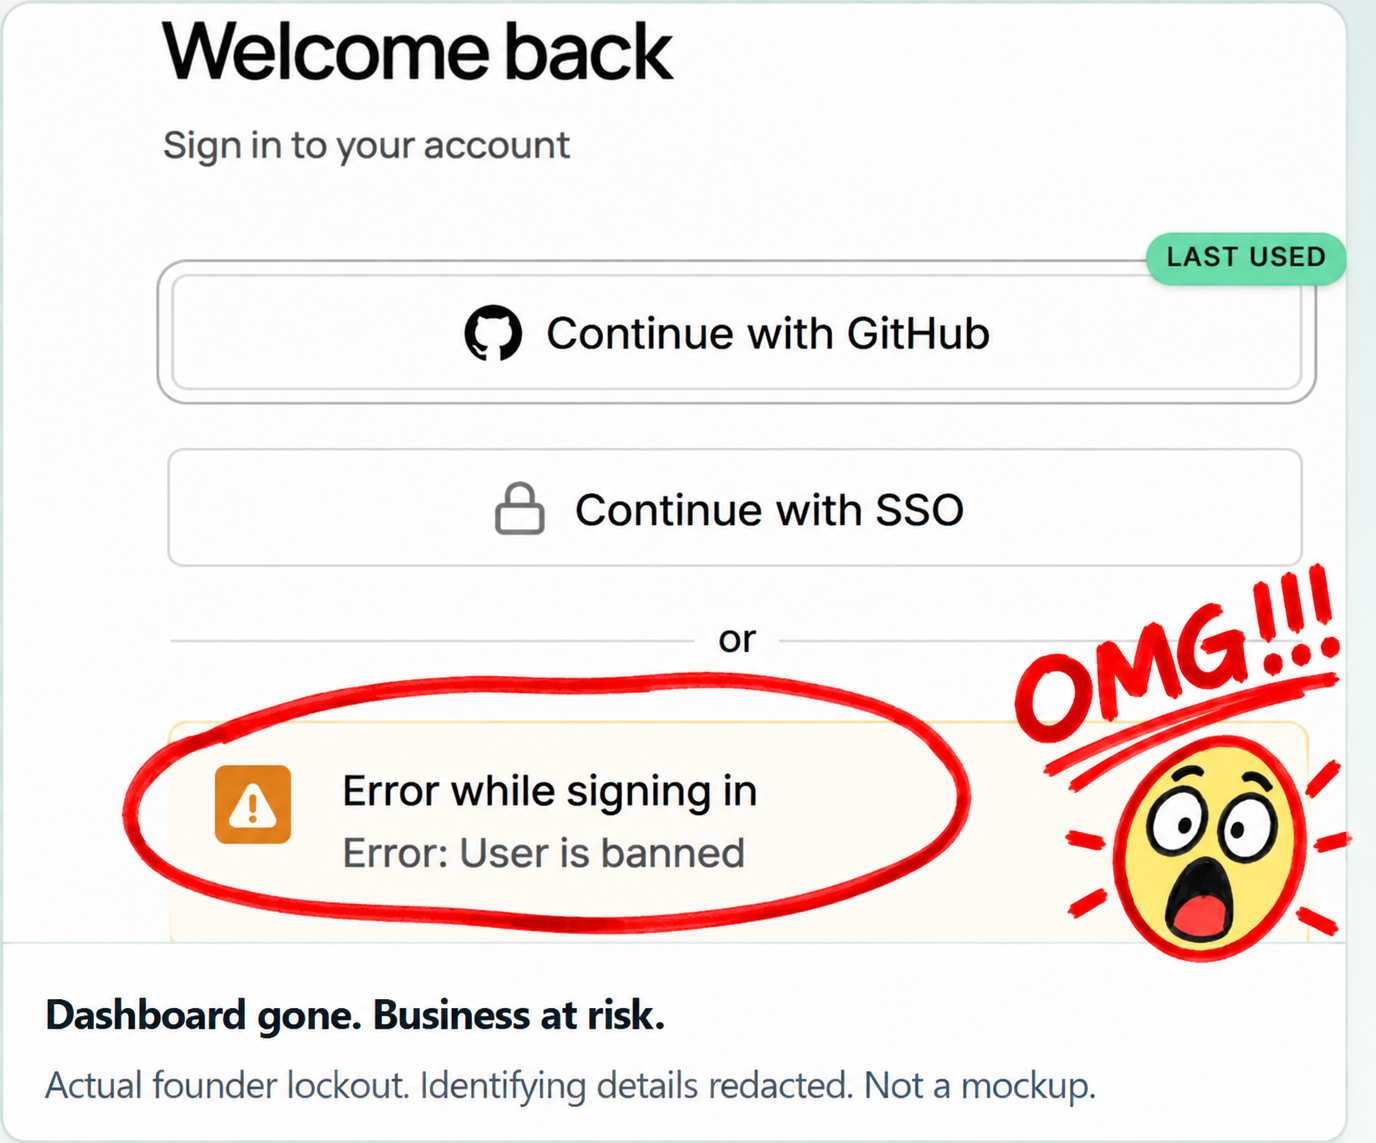
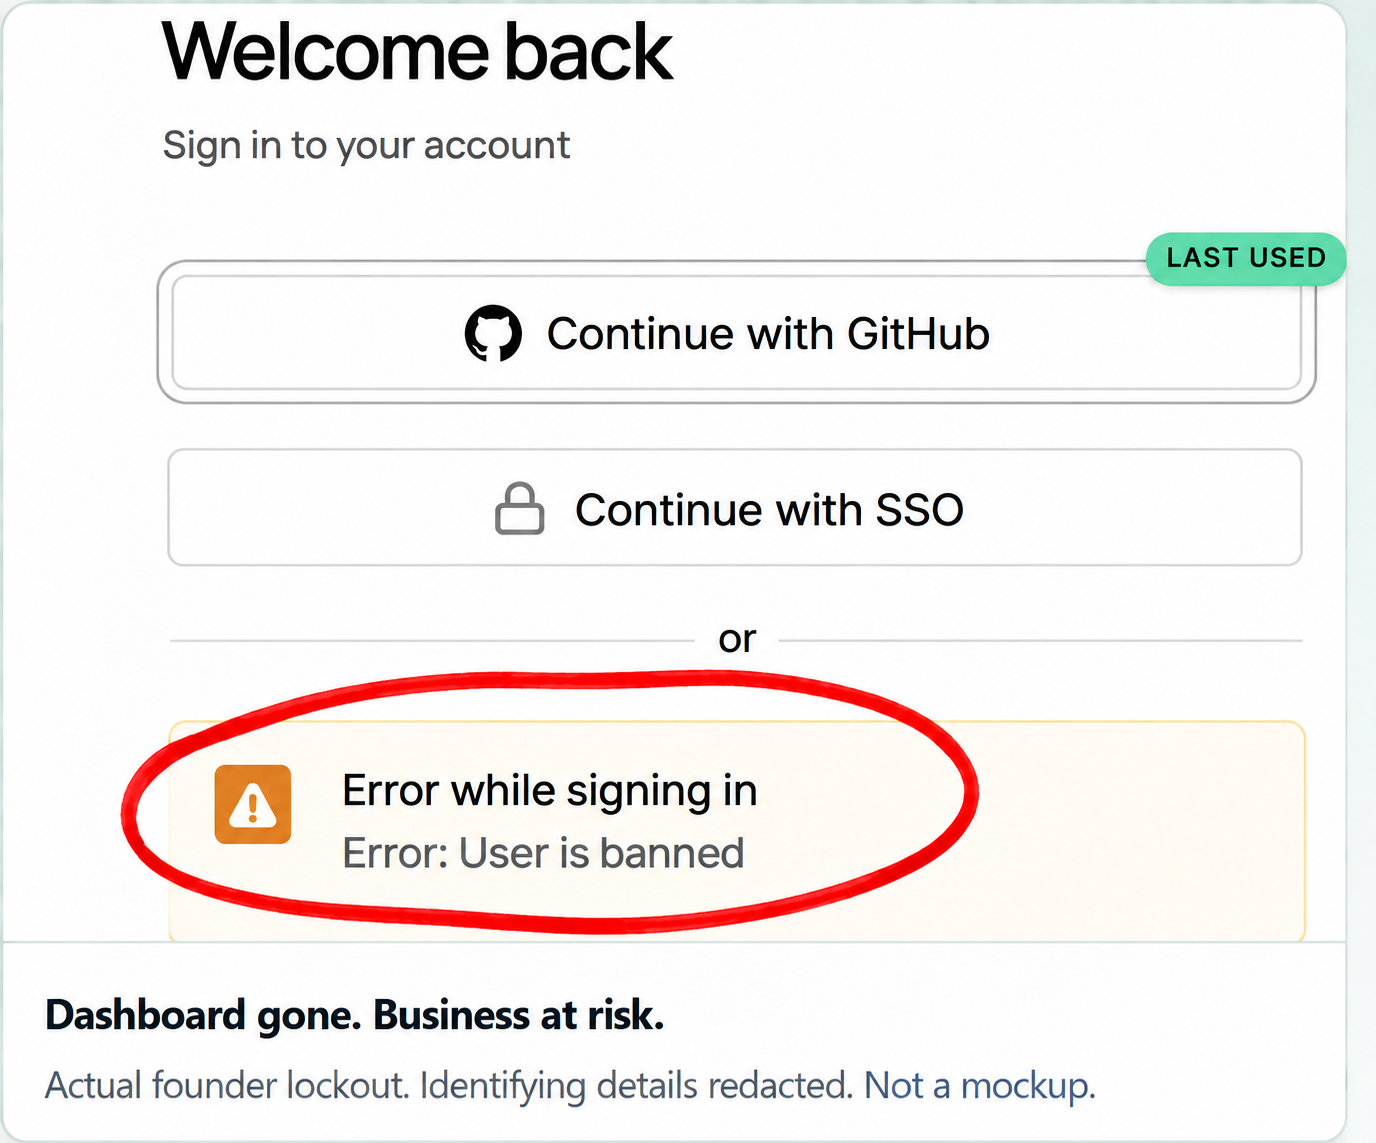
Landing page state + hero copy: SLA line and hosted-restore-to-new-account benefit
Includes pre-existing uncommitted copy edits (TwoScenarios section, factline/founder-note
revisions, nightmares data, banned.png update) plus hero additions: 48-hour email SLA
challenge and Cloud restore into a new (often free, <500 MB) Supabase account.

diff --git a/src/main.jsx b/src/main.jsx
@@ -200,9 +200,10 @@ function Hero() {
         <p className="hero-risk-headline"><strong>No API. No Auth. No dashboard. No reachable backups.</strong></p>
         </div>
         <div className="hero-copy-rest">
-        <p className="hero-lead">Supabase is a world-class product. It took millions of developers from idea to a real business. Now picture the morning you cannot log in. No dashboard, no API, and the backups you counted on are locked in the same console. Portabase snapshots your whole project into an encrypted capsule you own, ready to restore in a different account.</p>
+        <p className="hero-lead">Supabase is a world-class product. It took millions of developers from idea to a real business. Now picture the morning you cannot log in. No dashboard, no API, and the backups you counted on are locked in the same console. <strong>Supabase's official SLA is 48 hours — by email. Can your business or project wait that long?</strong> Portabase snapshots your whole project into an encrypted capsule you own, ready to restore in a different account.</p>
+        <p className="hero-lead hero-lead-cloud">On the hosted Portabase Cloud, restore is the key benefit: it rebuilds your database into a <strong>brand-new Supabase account</strong> — in many cases even a <strong>free</strong> one, as long as you are under 500&nbsp;MB of storage total (tables, objects, and edge functions).</p>
         <div className="hero-analogy"><span aria-hidden="true">⌂</span><p><b>Your landlord changed the locks.</b> The backup inside the building is not an Escape. Portabase keeps your way out in another building—tested, current, and under your control.</p></div>
-        <div className="incident-factline"><b>MY INCIDENT · 95+ HOURS</b><span>“Billing dispute” cited</span><span>No details or paperwork</span><span>Card issuer found nothing identifiable</span><span>Singapore payment entity</span><span>No response from Supabase</span></div>
+        <div className="incident-factline"><b>MY INCIDENT · 95+ HOURS</b><span>“Billing dispute” cited</span><span>No details or paperwork</span><span>Card issuer found nothing identifiable</span><span>No response from Supabase</span></div>
         <div className="hero-actions">
           <a className="button button-primary" href="#escape">Build your Escape <Arrow /></a>
           <a className="text-link" href="#stories">See what lockout looks like <span>↓</span></a>
@@ -471,7 +472,7 @@ function WhyNow() {
       <div className="love-note"><span>Let’s be clear</span><h2>Supabase is great.</h2><p>That is why so many prototypes quietly became real companies on it. But loving the building does not mean leaving your only exit key with the landlord.</p></div>
       <aside className="founder-note">
         <div className="founder-note-label"><span>FOUNDER’S NOTE</span><small>WHY THIS ISN’T AN ATTACK</small></div>
-        <div className="founder-note-copy"><h3>I almost gave this product an angry name.</h3><p>“Supabase Sucks.” “Not So Supa.” Something that captured exactly how it felt to be locked out and unable to reach the business behind the screen.</p><div className="founder-incident"><span>THIS IS MY CURRENT SITUATION</span><p>Supabase cited a billing dispute. I received no transaction details, paperwork, or other explanation my credit-card company could identify. I contacted support. At the time of writing, <strong>95 hours have passed with absolutely no response from Supabase.</strong></p><p>Supabase’s own billing documentation says payments may appear from Singapore because its payment entity is there. There is nothing inherently wrong with that. But when a U.S. or other overseas customer is already disputing a vague billing claim, cross-border payment records, time zones, and remedies can add friction to an emergency that is already costing the business.</p><p>The business did not stop needing its database while the ticket waited. That is the danger Portabase exists to make visible.</p></div><p>But an angry name still would not have been fair—or true. <strong>Supabase is an excellent product.</strong> It has introduced millions of people to databases, Auth, Storage, Functions, and the possibility of building a real application without first becoming a backend engineer.</p><p>Portabase is not here to tell you to leave Supabase. It is here to point out one danger many builders never see: <strong>when the application, dashboard, support path, and backup all depend on the same account, one lock can stand between you and your entire business.</strong></p><b>Keep the platform. Remove the single point of failure.</b></div>
+        <div className="founder-note-copy"><h3>I almost gave this product an angry name.</h3><p>“Supabase Sucks.” “Not So Supa.” Something that captured exactly how it felt to be locked out and unable to reach the business behind the screen.</p><div className="founder-incident"><span>THIS IS MY CURRENT SITUATION</span><p>Supabase cited a billing dispute. I received no transaction details, paperwork, or other explanation my credit-card company could identify. I contacted support. At the time of writing, <strong>95 hours have passed with absolutely no response from Supabase.</strong></p><p>But when you are already disputing a vague billing claim, payment records, time zones, and remedies can add friction to an emergency that is already costing the business.</p><p>The business did not stop needing its database while the ticket waited. That is the danger Portabase exists to make visible.</p></div><p>But an angry name still would not have been fair—or true. <strong>Supabase is an excellent product.</strong> It has introduced millions of people to databases, Auth, Storage, Functions, and the possibility of building a real application without first becoming a backend engineer.</p><p>Portabase is not here to tell you to leave Supabase. It is here to point out one danger many builders never see: <strong>when the application, dashboard, support path, and backup all depend on the same account, one lock can stand between you and your entire business.</strong></p><b>Keep the platform. Remove the single point of failure.</b></div>
       </aside>
       <div className="growth-grid">
         <div className="growth-stat"><strong>~10M</strong><span>developers building on Supabase—and every one may need help someday</span><a href="https://supabase.com/blog/supabase-series-f" target="_blank" rel="noreferrer">Supabase, June 2026 <Arrow /></a></div>
@@ -479,15 +480,15 @@ function WhyNow() {
           <div className="section-kicker green">SUCCESS CREATED A NEW REALITY</div>
           <h3>The weekend prototype became a real business before anyone wrote the disaster plan.</h3>
           <p>Lovable, Bolt, v0 and other tools can put a production database behind an idea in minutes. Then the prototype gets customers, payments, years of records, and employees who need it tomorrow morning. The technical shortcut becomes the heart of a business long before anyone asks the brutal question: what happens if the owner cannot log in?</p>
-          <div className="scale-warning"><span>NEARLY 10 MILLION DEVELOPERS. ONE SUPPORT QUEUE.</span><h4>Extraordinary for Supabase. Terrifying when your company is the one that needs help now.</h4><p>Mass adoption proves the product works. It also means your business emergency enters a platform operating at enormous scale. On Pro, the published offering lists email support—but no support SLA, phone line, live chat, designated support contact, or dedicated urgent-outage escalation lane. Those protections begin appearing on higher tiers.</p><b>Your outage may be existential to you. To a platform serving millions, it is still a ticket.</b></div>
+          <div className="scale-warning"><span>NEARLY 10 MILLION DEVELOPERS. ONE SUPPORT QUEUE.</span><h4>Extraordinary for Supabase. Terrifying when your company is the one that needs help now.</h4><p>Mass adoption proves the product works. It also means your business emergency enters a platform operating at enormous scale. On Pro, the published offering lists email support—but no support SLA, phone line, live chat, designated support contact, or dedicated urgent-outage escalation lane. Those protections begin appearing on higher tiers.</p><p>Maybe success broke the queue. Ten million builders, one published email path for Pro, a 48-hour target. Your emergency lands wherever it lands.</p><b>Your outage may be existential to you. To a platform serving millions, it is still a ticket.</b></div>
           <div className="support-gap">
             <div><small>PRO · FROM $25/MO</small><b>Email support</b><span>No guaranteed support SLA</span></div>
             <div><small>TEAM · FROM $599/MO</small><b>Priority email</b><span>Support SLAs begin here</span></div>
             <div><small>ENTERPRISE</small><b>Private Slack</b><span>Premium 24×7 support</span></div>
           </div>
-          <p className="gap-close">If your production site is down on Pro, the published path is email. There is no published Pro phone number or private live-support channel. Supabase’s current legal materials name Supabase Pte. Ltd., and its billing guide identifies a Singapore payment entity. For customers elsewhere, that distance can matter when billing records, business hours, and escalation all collide. A Supabase representative has said the target is 24–48 hours and can run longer under volume; public reports on this page describe outages and support waits stretching far beyond that. Can your company afford to lose tomorrow’s orders, customers, and reputation while the inbox stays silent? When your business goes down at 10am, it can be 10pm where your ticket gets read.</p>
+          <p className="gap-close">If your production site is down on Pro, the published path is email. There is no published Pro phone number or private live-support channel. A Supabase representative has said the target is 24–48 hours and can run longer under volume; public reports on this page describe outages and support waits stretching far beyond that. Can your company afford to lose tomorrow’s orders, customers, and reputation while the inbox stays silent? When your business goes down at 10am, it can be 10pm where your ticket gets read.</p>
           <aside className="escalation-reality"><span>THIS IS NOT A BUSINESS CONTINUITY PLAN</span><blockquote>“See if you can find a GitHub maintainer. Maybe they can escalate it.”</blockquote><p>When the best remaining idea is to find a stranger on the internet who might know someone inside, you do not control the recovery of your business. You are asking for a favor while the clock runs.</p><b>Portabase turns “please answer” into “restore the capsule.”</b></aside>
-          <div className="source-links"><a href="https://supabase.com/solutions/vibe-coders" target="_blank" rel="noreferrer">Supabase for Vibe Coders <Arrow /></a><a href="https://supabase.com/pricing" target="_blank" rel="noreferrer">Published support tiers <Arrow /></a><a href="https://supabase.com/docs/guides/platform/billing-faq" target="_blank" rel="noreferrer">Singapore billing disclosure <Arrow /></a><a href="https://www.reddit.com/r/Supabase/comments/1kbj0sh/supabase_threatened_to_delete_all_my_work_after/" target="_blank" rel="noreferrer">24–48 hour support statement <Arrow /></a></div>
+          <div className="source-links"><a href="https://supabase.com/solutions/vibe-coders" target="_blank" rel="noreferrer">Supabase for Vibe Coders <Arrow /></a><a href="https://supabase.com/pricing" target="_blank" rel="noreferrer">Published support tiers <Arrow /></a><a href="https://supabase.com/docs/guides/platform/billing-faq" target="_blank" rel="noreferrer">Billing FAQ <Arrow /></a><a href="https://www.reddit.com/r/Supabase/comments/1kbj0sh/supabase_threatened_to_delete_all_my_work_after/" target="_blank" rel="noreferrer">24–48 hour support statement <Arrow /></a></div>
         </div>
       </div>
       <figure className="danger-zone-figure">
@@ -513,7 +514,7 @@ function Reality() {
       <div className="ban-reasons">
         <div className="ban-reasons-head"><div><span>IT CAN START WITH SOMETHING ORDINARY</span><h3>Restriction does not require a reckless business owner.</h3></div><p>A payment descriptor is questioned. A card expires. A customer uploads disputed material. A traffic spike looks abusive. The result may be a billing restriction, project suspension, investigation, or account-level lockout—different mechanisms with the same immediate problem: your business can no longer depend on normal access.</p></div>
         <div className="ban-reason-grid">
-          <div><b>01</b><strong>Foreign payment questioned</strong><p>A bookkeeper, accountant, bank, or fraud system may not recognize “SUPABASE PTE. LTD. · SINGAPORE.” A chargeback inquiry is not documented as an automatic ban, but it can become a payment or fraud review.</p></div>
+          <div><b>01</b><strong>Foreign payment questioned</strong><p>A bookkeeper, accountant, bank, or fraud system may not recognize an unfamiliar foreign payment descriptor. A chargeback inquiry is not documented as an automatic ban, but it can become a payment or fraud review.</p></div>
           <div><b>02</b><strong>Routine card failure</strong><p>An expired card, bank decline, insufficient funds, missing card, overdue invoice, or incorrect billing address can restrict services or pause projects.</p></div>
           <div><b>03</b><strong>Quota or runaway usage</strong><p>Repeated plan overages, spend-cap limits, viral traffic, bot traffic, reconnection loops, uncontrolled channels, or a load test pointed at production can trigger restrictions.</p></div>
           <div><b>04</b><strong>Someone reports hosted content</strong><p>A copyright, privacy, harassment, fraud, or other abuse complaint may trigger investigation. The owner can face the operational consequence before the underlying dispute is resolved.</p></div>
@@ -756,6 +757,112 @@ function EscapeVsSupabaseDiagram() {
         Portabase exists so the way out is already in <em>your</em> building.
       </p>
     </div>
+  );
+}
+
+/** Two lockout archetypes: severe (no recourse) vs inconvenient (recoverable, barely). Neither offers retroactive rescue. */
+function TwoScenarios() {
+  return (
+    <section className="section" id="lockout-types">
+      <div className="shell">
+        <div className="section-kicker red">TWO WAYS THIS HAPPENS</div>
+        <div className="split-heading">
+          <h2>Not every lockout looks the same.</h2>
+          <p>Both end the same way without a capsule already in place: you're the one who needed the insurance, and it's too late to buy it.</p>
+        </div>
+        <div className="esc-cmp-panels">
+          <article className="esc-cmp-panel esc-cmp-panel-locked">
+            <header>
+              <small>SEVERE · NO RECOURSE</small>
+              <h3>The account is gone</h3>
+            </header>
+            <div className="esc-cmp-lock" aria-hidden="true">
+              <div className="esc-cmp-lock-door">
+                <i />
+                <b>BANNED</b>
+                <span>No login · no API · no dashboard</span>
+              </div>
+              <div className="esc-cmp-lock-arrow">⇢</div>
+              <div className="esc-cmp-lock-vault esc-cmp-lock-vault-dead">
+                <b>Nothing left to reach</b>
+                <span>Database, backups, support — all behind the same wall</span>
+              </div>
+            </div>
+            <ul className="esc-cmp-bullets">
+              <li>No connection string works — the project itself is unreachable</li>
+              <li>A pre-incident capsule is the only way out</li>
+              <li>Without one, there is nothing left to do</li>
+            </ul>
+          </article>
+
+          <article className="esc-cmp-panel">
+            <header>
+              <small>INCONVENIENT · BARELY RECOVERABLE</small>
+              <h3>The console is gone, the database isn't</h3>
+            </header>
+            <div className="esc-cmp-lock" aria-hidden="true">
+              <div className="esc-cmp-lock-door">
+                <i />
+                <b>MFA / IDENTITY LOCKED</b>
+                <span>Dashboard login fails</span>
+              </div>
+              <div className="esc-cmp-lock-arrow">⇢</div>
+              <div className="esc-cmp-lock-vault">
+                <b>DB connection string still works</b>
+                <span>If you kept it somewhere else — most people don't</span>
+              </div>
+            </div>
+            <ul className="esc-cmp-bullets">
+              <li>Source keys are separate from console login — sometimes that saves you</li>
+              <li>Recovery depends on having saved a credential you probably didn't think to save</li>
+              <li>Effort, luck, and technical comfort required — not a plan</li>
+            </ul>
+          </article>
+        </div>
+        <p className="esc-cmp-foot">
+          Neither panel is a pitch to call us mid-incident — we don't do retroactive rescue.
+          Both are the reason to already have a capsule before you need one.
+        </p>
+      </div>
+    </section>
+  );
+}
+
+/** Conceptual runner architecture: sealed isolated container, keys decrypted only inside it, tunnel is break-glass access only. */
+function RunnerArchitectureDiagram() {
+  const box = { border: '1px solid var(--paper-line-strong)', borderRadius: 'var(--radius)', background: 'var(--paper-raised)', padding: '16px 18px' };
+  return (
+    <section className="section" id="how-the-runner-works" style={{ background: 'var(--paper)' }}>
+      <div className="shell">
+        <div className="section-kicker green">CONCEPTUAL · HOW MANAGED ESCAPE IS DESIGNED TO WORK</div>
+        <div className="split-heading">
+          <h2>A sealed container, not a shared server.</h2>
+          <p>Conceptual illustration of the managed-runner design — not a live dashboard. Your source credentials are sealed to a container built only for your job, run in an isolated cloud environment, and never decrypted anywhere Portabase's own systems can read them.</p>
+        </div>
+        <div style={{ display: 'grid', gridTemplateColumns: 'repeat(auto-fit, minmax(220px, 1fr))', gap: 20, alignItems: 'stretch', marginTop: 24 }}>
+          <div style={box}>
+            <b>1. You seal your keys</b>
+            <p style={{ color: 'var(--ink-muted)', fontSize: 14, marginTop: 8 }}>Your browser encrypts your Supabase credentials to a key only your job's container can unwrap. Portabase's servers see ciphertext only.</p>
+          </div>
+          <div style={box}>
+            <b>2. An isolated container runs, then disappears</b>
+            <p style={{ color: 'var(--ink-muted)', fontSize: 14, marginTop: 8 }}>A short-lived, per-customer container spins up in an isolated cloud environment, decrypts your keys <em>inside itself only</em>, runs the capture, and is destroyed. Nothing persists.</p>
+          </div>
+          <div style={box}>
+            <b>3. The capsule goes to your vault</b>
+            <p style={{ color: 'var(--ink-muted)', fontSize: 14, marginTop: 8 }}>The encrypted capsule lands in storage you own — Dropbox, S3, NAS. Portabase never holds a copy.</p>
+          </div>
+          <div style={box}>
+            <b>4. Break-glass access is yours alone</b>
+            <p style={{ color: 'var(--ink-muted)', fontSize: 14, marginTop: 8 }}>An encrypted tunnel lets <em>you</em> reach your own container for debugging (e.g. <code>portabase doctor</code>) — never a bypass of capsule encryption, and never a path in for Portabase.</p>
+          </div>
+        </div>
+        <p className="esc-cmp-foot">
+          This describes the managed-runner design, not a claim that automatic scheduled runs are live today —
+          check the Cloud page for what's currently shipped versus what's on the roadmap.
+        </p>
+      </div>
+    </section>
   );
 }
 
@@ -2119,7 +2226,7 @@ function UseCases() {
 
 function HomePage() {
   useEffect(() => { document.title = 'Portabase — Your Supabase Escape'; }, []);
-  return <><Header /><main><Hero /><HeroConcept /><NeverHoldKeys /><Faq /><CliVsCloud /><WhatIsThis /><WhyNow /><Reality /><ClosureRisk /><Stories /><Escape /><InstallCta Arrow={Arrow} /><Audit /><Cutover /><PublicDeal /><CloudTeaser /><UseCases /></main><Footer /></>;
+  return <><Header /><main><Hero /><HeroConcept /><NeverHoldKeys /><Faq /><CliVsCloud /><WhatIsThis /><WhyNow /><Reality /><ClosureRisk /><Stories /><TwoScenarios /><RunnerArchitectureDiagram /><Escape /><InstallCta Arrow={Arrow} /><Audit /><Cutover /><PublicDeal /><CloudTeaser /><UseCases /></main><Footer /></>;
 }
 
 function App() {

diff --git a/src/data/nightmares.js b/src/data/nightmares.js
@@ -334,5 +334,29 @@ export const nightmares = [
     source: 'Supabase Status · Jun 17, 2026',
     href: 'https://status.supabase.com/incidents/dj3n11rv8q6h',
     verified: 'Official infrastructure incident'
+  },
+  {
+    id: 'N43', kind: 'firsthand', tag: 'IDENTITY LOCKOUT',
+    title: 'An MFA lockout with no recovery codes left a two-week-old ticket unanswered.',
+    body: 'The poster said their credentials were correct but login required a TOTP code that never appeared in their authenticator app. Two support tickets went unanswered, and the in-dashboard support form itself required MFA to submit.',
+    source: 'GitHub Discussions · Jul 7, 2026',
+    href: 'https://github.com/orgs/supabase/discussions/47670',
+    verified: 'Firsthand report · zero replies, unresolved publicly'
+  },
+  {
+    id: 'N44', kind: 'firsthand', tag: 'IDENTITY LOCKOUT',
+    title: 'A lost authenticator and no recovery codes met a support form that itself required MFA to open.',
+    body: 'The poster lost their authenticator and had no recovery codes, so they could not pass the TOTP screen; the in-dashboard support form was inaccessible without completing MFA first. A collaborator confirmed Supabase policy generally cannot help in this situation.',
+    source: 'GitHub Discussions · Jul 8, 2026',
+    href: 'https://github.com/orgs/supabase/discussions/47749',
+    verified: 'Firsthand report · community response only, no confirmed resolution'
+  },
+  {
+    id: 'N45', kind: 'firsthand', tag: 'PHANTOM BILLING',
+    title: 'Regaining a lost production project only revealed a storage lock that rejected every delete attempt.',
+    body: 'The poster reported losing access to a production project and regained it via a community workaround. The project then turned out to be restricted for exceeding its storage quota, and every attempt to delete the old files needed to clear the block returned HTTP 402, even using the project secret key.',
+    source: 'GitHub Discussions · Sep 17, 2026',
+    href: 'https://github.com/orgs/supabase/discussions/50494',
+    verified: 'Firsthand report · self-help workaround for access, storage block unresolved at close'
   }
 ];

diff --git a/docs/HOMEPAGE-DRAFT.md b/docs/HOMEPAGE-DRAFT.md
@@ -67,6 +67,14 @@ Replace any "hot replica" language with:
 2. Praise Supabase as the platform; recommend paid tier for production.
 3. Every incident claim keeps its exact href. No invented stats.
 4. Time zones, not jurisdiction. Defaults, not users, are the villain.
+5. **"Fire insurance" is a repeated refrain, not a one-time tagline.** Work it
+   into the hero, the pricing section, and any lockout-story framing —
+   nobody shops for it after the fire.
+6. **Never offer retroactive rescue.** Both lockout archetypes (full lockout,
+   no recourse at all; console-locked but DB still reachable, recoverable but
+   only with effort/luck) are cautionary evidence for signing up *before* an
+   incident — never "contact us now, we'll get you out." Consistent with
+   rule 5: an insurer does not sell a policy to a house already on fire.
 
 ## Out of scope for this pass
 
